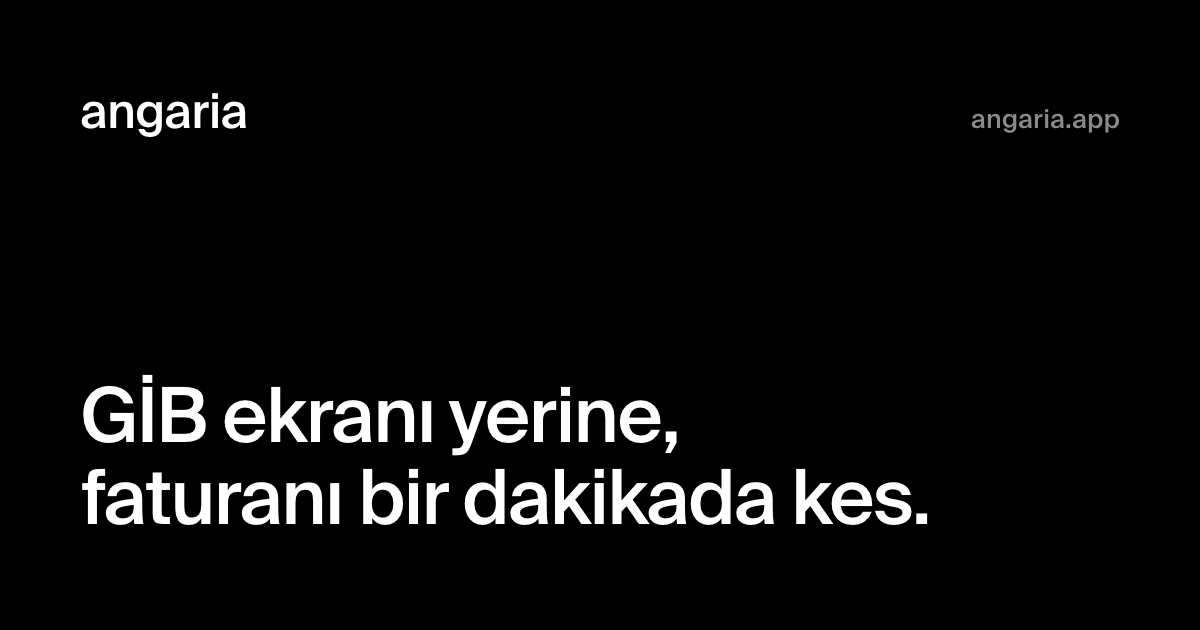
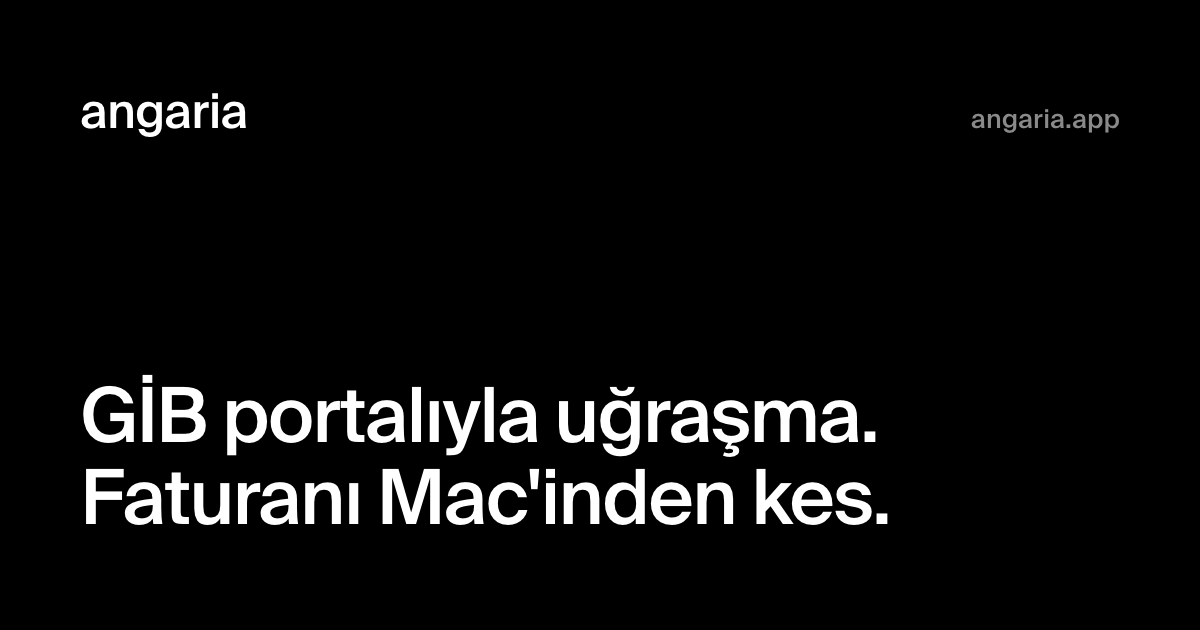
feat(web): rewrite the site copy in native Turkish
Sen voice throughout, kesmek and onaylamak, prices as "yıllık 1.499 TL".
New hero, compare, feature and FAQ copy checked against the desktop app:
foreign-client card, the PDF as a copy for the client, a "kimler için
değil" answer, mali müşavir notes, the card the trial needs. Adds the
pricing lead "Kontör yok. Ön muhasebe aboneliği yok.", a footer line
that Angaria has no tie to GİB, a neutral JSON-LD description, and a
new OG image. Legal pages keep their substance in plainer Turkish.

Changed region(s): [[0.0617, 0.6032, 0.7708, 0.8444]]

diff --git a/apps/web/src/routes/index.tsx b/apps/web/src/routes/index.tsx
@@ -40,7 +40,7 @@ const structuredData = () => ({
   '@context': 'https://schema.org',
   '@type': 'SoftwareApplication',
   applicationCategory: 'BusinessApplication',
-  description: m.meta_description(),
+  description: m.meta_app_description(),
   inLanguage: 'tr',
   name: 'Angaria',
   offers: [offer('yearly', m.pricing_yearly()), offer('monthly', m.pricing_monthly())],
@@ -229,6 +229,10 @@ const styles = create({
   lead: {
     maxWidth: 600,
   },
+  // Under a centered heading, the lead centers with it.
+  leadCentered: {
+    textAlign: 'center',
+  },
   privacyLead: {
     fontSize: font.sizeLg,
     fontWeight: font.weightMedium,
@@ -312,7 +316,7 @@ function Landing() {
         <ul {...props(styles.columns, styles.wide)}>
           <PainPoint body={m.compare_saved_body()} index={3} title={m.compare_saved_title()} />
           <PainPoint body={m.compare_repeat_body()} index={4} title={m.compare_repeat_title()} />
-          <PainPoint body={m.compare_time_body()} index={5} title={m.compare_time_title()} />
+          <PainPoint body={m.compare_sign_body()} index={5} title={m.compare_sign_title()} />
         </ul>
       </RevealSection>
 
@@ -427,6 +431,9 @@ function Landing() {
           </SectionHeading>
         </Reveal>
         <Reveal index={1}>
+          <p {...props(layout.text, styles.leadCentered)}>{m.pricing_lead()}</p>
+        </Reveal>
+        <Reveal index={2}>
           <Pricing />
         </Reveal>
       </RevealSection>
@@ -436,13 +443,17 @@ function Landing() {
           <SectionHeading id="sss">{m.faq_title()}</SectionHeading>
         </Reveal>
         <dl {...props(layout.list)}>
-          <Question body={m.faq_connect_a()} index={1} title={m.faq_connect_q()} />
-          <Question body={m.faq_audience_a()} index={2} title={m.faq_audience_q()} />
-          <Question body={m.faq_windows_a()} index={3} title={m.faq_windows_q()} />
-          <Question body={m.faq_data_a()} index={4} title={m.faq_data_q()} />
-          <Question body={m.faq_price_a()} index={5} title={m.faq_price_q()} />
-          <Question body={m.faq_cancel_a()} index={6} title={m.faq_cancel_q()} />
-          <Question body={m.faq_efatura_a()} index={7} title={m.faq_efatura_q()} />
+          <Question body={m.faq_audience_a()} index={1} title={m.faq_audience_q()} />
+          <Question body={m.faq_not_for_a()} index={2} title={m.faq_not_for_q()} />
+          <Question body={m.faq_efatura_a()} index={3} title={m.faq_efatura_q()} />
+          <Question body={m.faq_connect_a()} index={4} title={m.faq_connect_q()} />
+          <Question body={m.faq_data_a()} index={5} title={m.faq_data_q()} />
+          <Question body={m.faq_foreign_a()} index={6} title={m.faq_foreign_q()} />
+          <Question body={m.faq_pdf_a()} index={7} title={m.faq_pdf_q()} />
+          <Question body={m.faq_accountant_a()} index={8} title={m.faq_accountant_q()} />
+          <Question body={m.faq_price_a()} index={9} title={m.faq_price_q()} />
+          <Question body={m.faq_cancel_a()} index={10} title={m.faq_cancel_q()} />
+          <Question body={m.faq_windows_a()} index={11} title={m.faq_windows_q()} />
         </dl>
       </RevealSection>
     </>

diff --git a/apps/web/src/components/pricing.test.tsx b/apps/web/src/components/pricing.test.tsx
@@ -22,8 +22,8 @@ describe('Pricing', () => {
     render(<Pricing />);
 
     expect(screen.getByRole('tab', { name: 'Yıllık' })).toHaveAttribute('aria-selected', 'true');
-    expect(screen.getByRole('tabpanel')).toHaveTextContent('1.499 ₺/ yıl');
-    expect(screen.getByText('Aylık plana göre yaklaşık yüzde 37 daha ucuz')).toBeVisible();
+    expect(screen.getByRole('tabpanel')).toHaveTextContent('yıllık 1.499 TL');
+    expect(screen.getByText('Ayda yaklaşık 125 TL, aylık plandan %37 ucuz')).toBeVisible();
     expect(checkout()).toHaveAttribute('href', 'https://polar.test/yearly');
   });
 
@@ -33,8 +33,8 @@ describe('Pricing', () => {
     fireEvent.click(screen.getByRole('tab', { name: 'Aylık' }));
 
     expect(screen.getByRole('tab', { name: 'Aylık' })).toHaveAttribute('aria-selected', 'true');
-    expect(screen.getByRole('tabpanel')).toHaveTextContent('199 ₺/ ay');
-    expect(screen.queryByText('Aylık plana göre yaklaşık yüzde 37 daha ucuz')).not.toBeVisible();
+    expect(screen.getByRole('tabpanel')).toHaveTextContent('aylık 199 TL');
+    expect(screen.queryByText('Ayda yaklaşık 125 TL, aylık plandan %37 ucuz')).not.toBeVisible();
     expect(checkout()).toHaveAttribute('href', 'https://polar.test/monthly');
 
     fireEvent.click(checkout());
@@ -59,5 +59,6 @@ describe('Pricing', () => {
   test('the yearly saving note matches the prices', () => {
     const saving = 1 - PRICES_TRY.yearly / (PRICES_TRY.monthly * 12);
     expect(Math.round(saving * 100)).toBe(37);
+    expect(Math.round(PRICES_TRY.yearly / 12)).toBe(125);
   });
 });

diff --git a/apps/web/src/components/pricing.tsx b/apps/web/src/components/pricing.tsx
@@ -192,11 +192,12 @@ export function Pricing() {
   );
 }
 
+/** "yıllık 1.499 TL": the period leads, as Turkish says a price, and the amount carries the weight. */
 function Price({ amount, period }: { amount: string; period: string }) {
   return (
     <p {...props(layout.text, styles.price)}>
+      <span {...props(layout.muted)}>{period}</span>{' '}
       <span {...props(styles.priceAmount)}>{amount}</span>
-      <span {...props(layout.muted)}>{period}</span>
     </p>
   );
 }

diff --git a/apps/web/scripts/render-brand.ts b/apps/web/scripts/render-brand.ts
@@ -31,7 +31,7 @@ const SQUIRCLE_EXPONENT = 5;
 /** Points per quarter of the squircle outline. */
 const SQUIRCLE_STEPS = 24;
 
-const OG_TAGLINE = 'GİB ekranı yerine, faturanı bir dakikada kes.';
+const OG_TAGLINE = "GİB portalıyla uğraşma. Faturanı Mac'inden kes.";
 const OG_DOMAIN = 'angaria.app';
 
 const round = (value: number) => Math.round(value * 100) / 100;

diff --git a/apps/web/src/components/site-header.tsx b/apps/web/src/components/site-header.tsx
@@ -27,7 +27,7 @@ export function SiteHeader() {
       <Link aria-label={m.header_home()} to="/" {...props(styles.home)}>
         <Wordmark style={styles.wordmark} />
       </Link>
-      <CheckoutButton label={m.header_buy()} location="header" />
+      <CheckoutButton label={m.header_trial()} location="header" />
     </header>
   );
 }

diff --git a/apps/web/src/components/site-footer.tsx b/apps/web/src/components/site-footer.tsx
@@ -58,6 +58,7 @@ export function SiteFooter() {
           }
         />
       </p>
+      <p {...props(styles.line)}>{m.footer_disclaimer()}</p>
       <nav aria-label={m.footer_links()}>
         <ul {...props(styles.links)}>
           <li>
